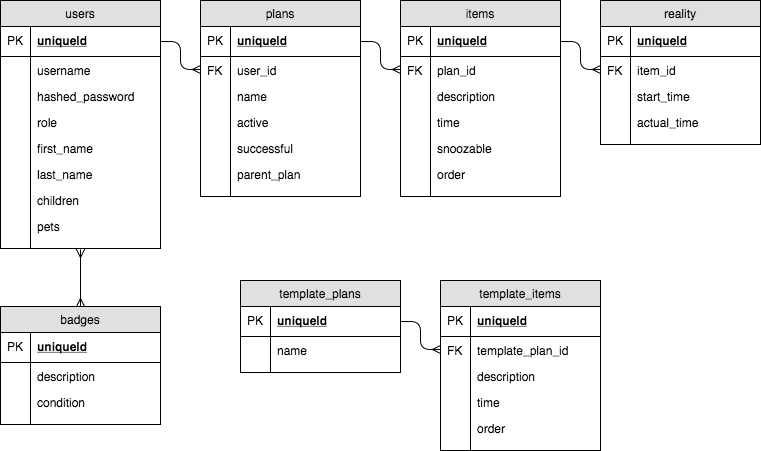
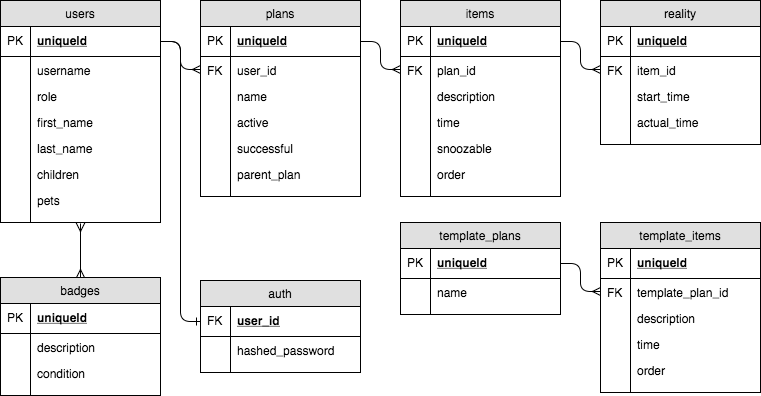
Separate auth into separate table (from users).

diff --git a/db/seeds/01_users.js b/db/seeds/01_users.js
@@ -2,11 +2,11 @@ exports.seed = function(knex, Promise) {
   // Inserts sample users
   // Plain text password for all sample users is 'password'
   return knex('users').insert([
-    { id: 1, first_name: 'Admin', last_name: 'Istrator', username: 'admin', hashed_password: '$2a$10$x5BXBKwhjo.VCl8A/tuFfuLfEv8narDxPbvx6yMHlG.Y6EreIcCFa', role: 'admin', children: true, pets: true },
-    { id: 2, first_name: 'Rando', last_name: 'Ipsum', username: 'babbles', hashed_password: '$2a$10$x5BXBKwhjo.VCl8A/tuFfuLfEv8narDxPbvx6yMHlG.Y6EreIcCFa', children: false, pets: false },
-    { id: 3, first_name: 'Theon', last_name: 'Greyjoy', username: 'reek', hashed_password: '$2a$10$x5BXBKwhjo.VCl8A/tuFfuLfEv8narDxPbvx6yMHlG.Y6EreIcCFa', children: false, pets: true },
-    { id: 4, first_name: 'Mother', last_name: 'Hubbard', username: 'goose', hashed_password: '$2a$10$x5BXBKwhjo.VCl8A/tuFfuLfEv8narDxPbvx6yMHlG.Y6EreIcCFa', children: true, pets: true },
-    { id: 5, first_name: 'Flash', last_name: 'Mulligan', username: 'zippy', hashed_password: '$2a$10$x5BXBKwhjo.VCl8A/tuFfuLfEv8narDxPbvx6yMHlG.Y6EreIcCFa', children: true, pets: false }
+    { id: 1, first_name: 'Admin', last_name: 'Istrator', username: 'admin', role: 'admin', children: true, pets: true },
+    { id: 2, first_name: 'Rando', last_name: 'Ipsum', username: 'babbles', children: false, pets: false },
+    { id: 3, first_name: 'Theon', last_name: 'Greyjoy', username: 'reek', children: false, pets: true },
+    { id: 4, first_name: 'Mother', last_name: 'Hubbard', username: 'goose', children: true, pets: true },
+    { id: 5, first_name: 'Flash', last_name: 'Mulligan', username: 'zippy', children: true, pets: false }
   ])
   .then(() => {
     return knex.raw(`SELECT setval('users_id_seq', (SELECT MAX(id) FROM users));`)

diff --git a/db/seeds/08_auth.js b/db/seeds/08_auth.js
@@ -1,0 +1,10 @@
+exports.seed = function(knex, Promise) {
+  // Plain text password for all sample users is 'password'
+  return knex('users').insert([
+    { user_id: 1, hashed_password: '$2a$10$x5BXBKwhjo.VCl8A/tuFfuLfEv8narDxPbvx6yMHlG.Y6EreIcCFa' },
+    { user_id: 2, hashed_password: '$2a$10$x5BXBKwhjo.VCl8A/tuFfuLfEv8narDxPbvx6yMHlG.Y6EreIcCFa' },
+    { user_id: 3, hashed_password: '$2a$10$x5BXBKwhjo.VCl8A/tuFfuLfEv8narDxPbvx6yMHlG.Y6EreIcCFa' },
+    { user_id: 4, hashed_password: '$2a$10$x5BXBKwhjo.VCl8A/tuFfuLfEv8narDxPbvx6yMHlG.Y6EreIcCFa' },
+    { user_id: 5, hashed_password: '$2a$10$x5BXBKwhjo.VCl8A/tuFfuLfEv8narDxPbvx6yMHlG.Y6EreIcCFa' },
+  ])
+}

diff --git a/db/migrations/20171219234442_users.js b/db/migrations/20171219234442_users.js
@@ -4,7 +4,6 @@ exports.up = function(knex, Promise) {
     table.string('first_name').notNullable().defaultTo('')
     table.string('last_name').notNullable().defaultTo('')
     table.string('username').notNullable().defaultTo('')
-    table.string('hashed_password').notNullable().defaultTo('')
     table.enum('role', [ 'admin', 'user' ]).defaultTo('user')
     table.boolean('children').notNullable().defaultTo(false)
     table.boolean('pets').notNullable().defaultTo(false)

diff --git a/db/migrations/20171222223848_auth.js b/db/migrations/20171222223848_auth.js
@@ -1,0 +1,12 @@
+exports.up = function(knex, Promise) {
+  return knex.schema.createTable('users', (table) => {
+    table.integer('user_id').notNullable()
+    table.foreign('user_id').references('users.id').onDelete('CASCADE')
+    table.string('hashed_password').notNullable().defaultTo('')
+    table.timestamps(true, true)
+  })
+}
+
+exports.down = function(knex, Promise) {
+  return knex.schema.dropTable('users')
+}

diff --git a/db/seeds/00_drop.js b/db/seeds/00_drop.js
@@ -4,6 +4,7 @@ exports.seed = function(knex, Promise) {
     .then(() => knex('items').del())
     .then(() => knex('plans').del())
     .then(() => knex('badges').del())
+    .then(() => knex('auth').del())
     .then(() => knex('users').del())
     .then(() => knex('template_items').del())
     .then(() => knex('template_plans').del())
